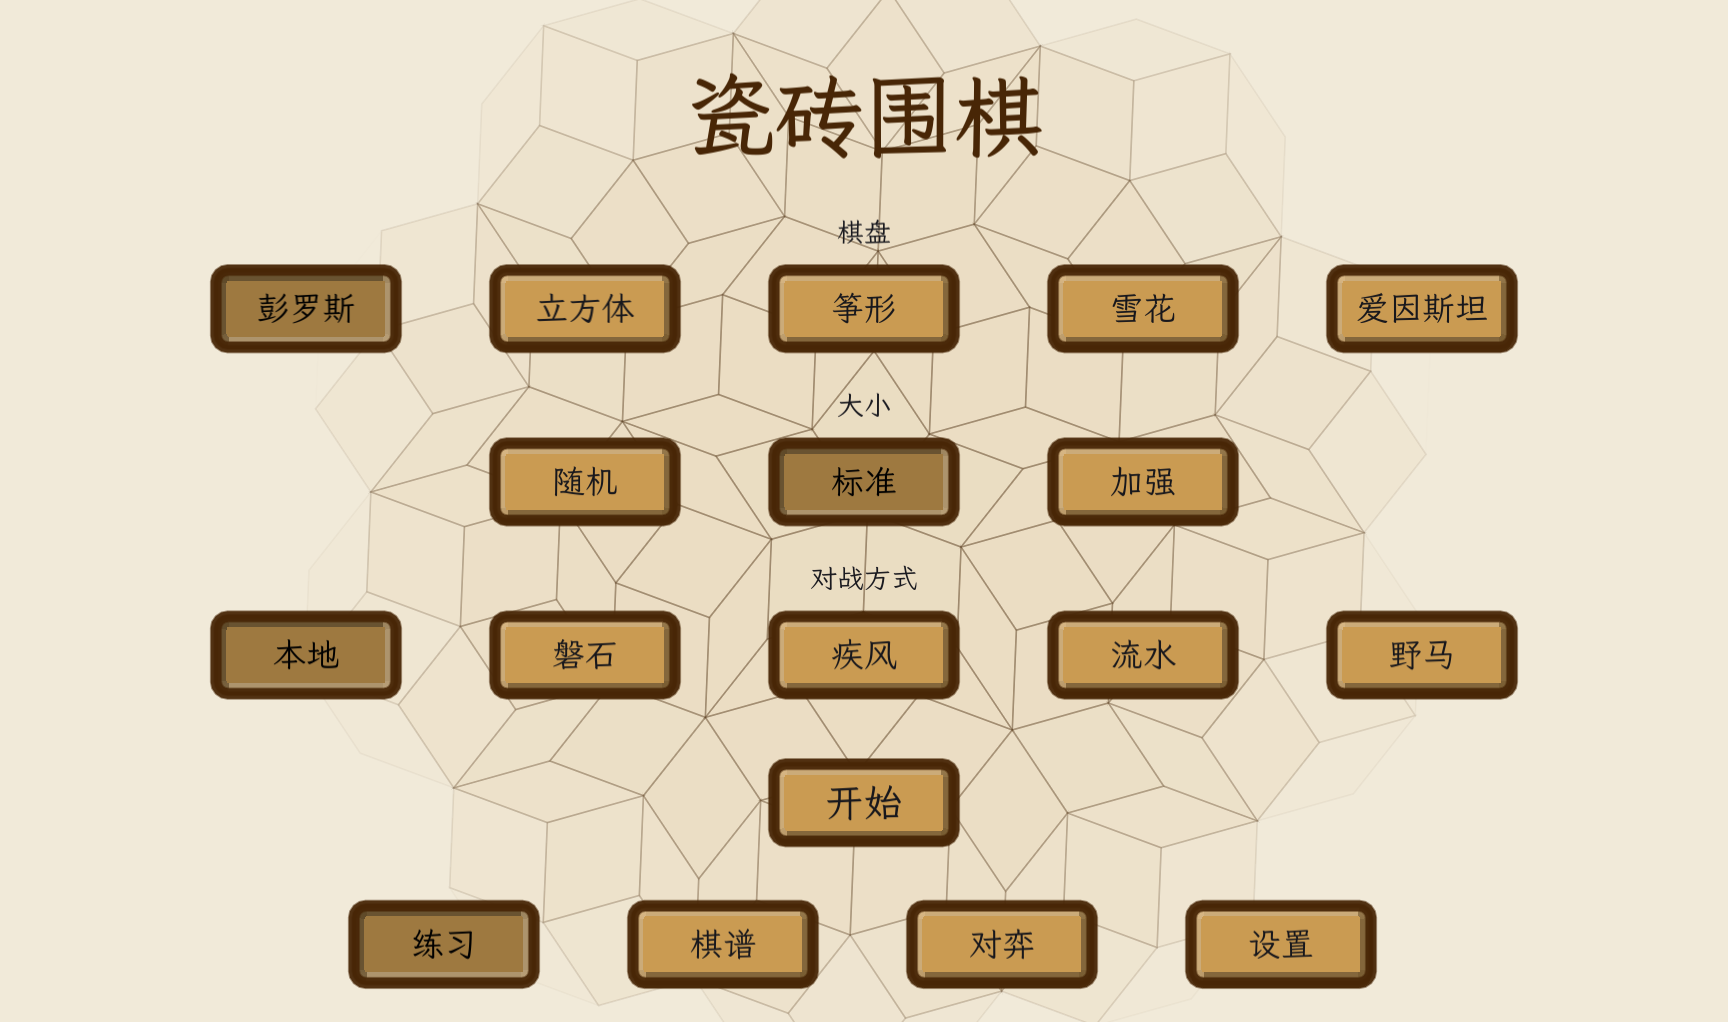
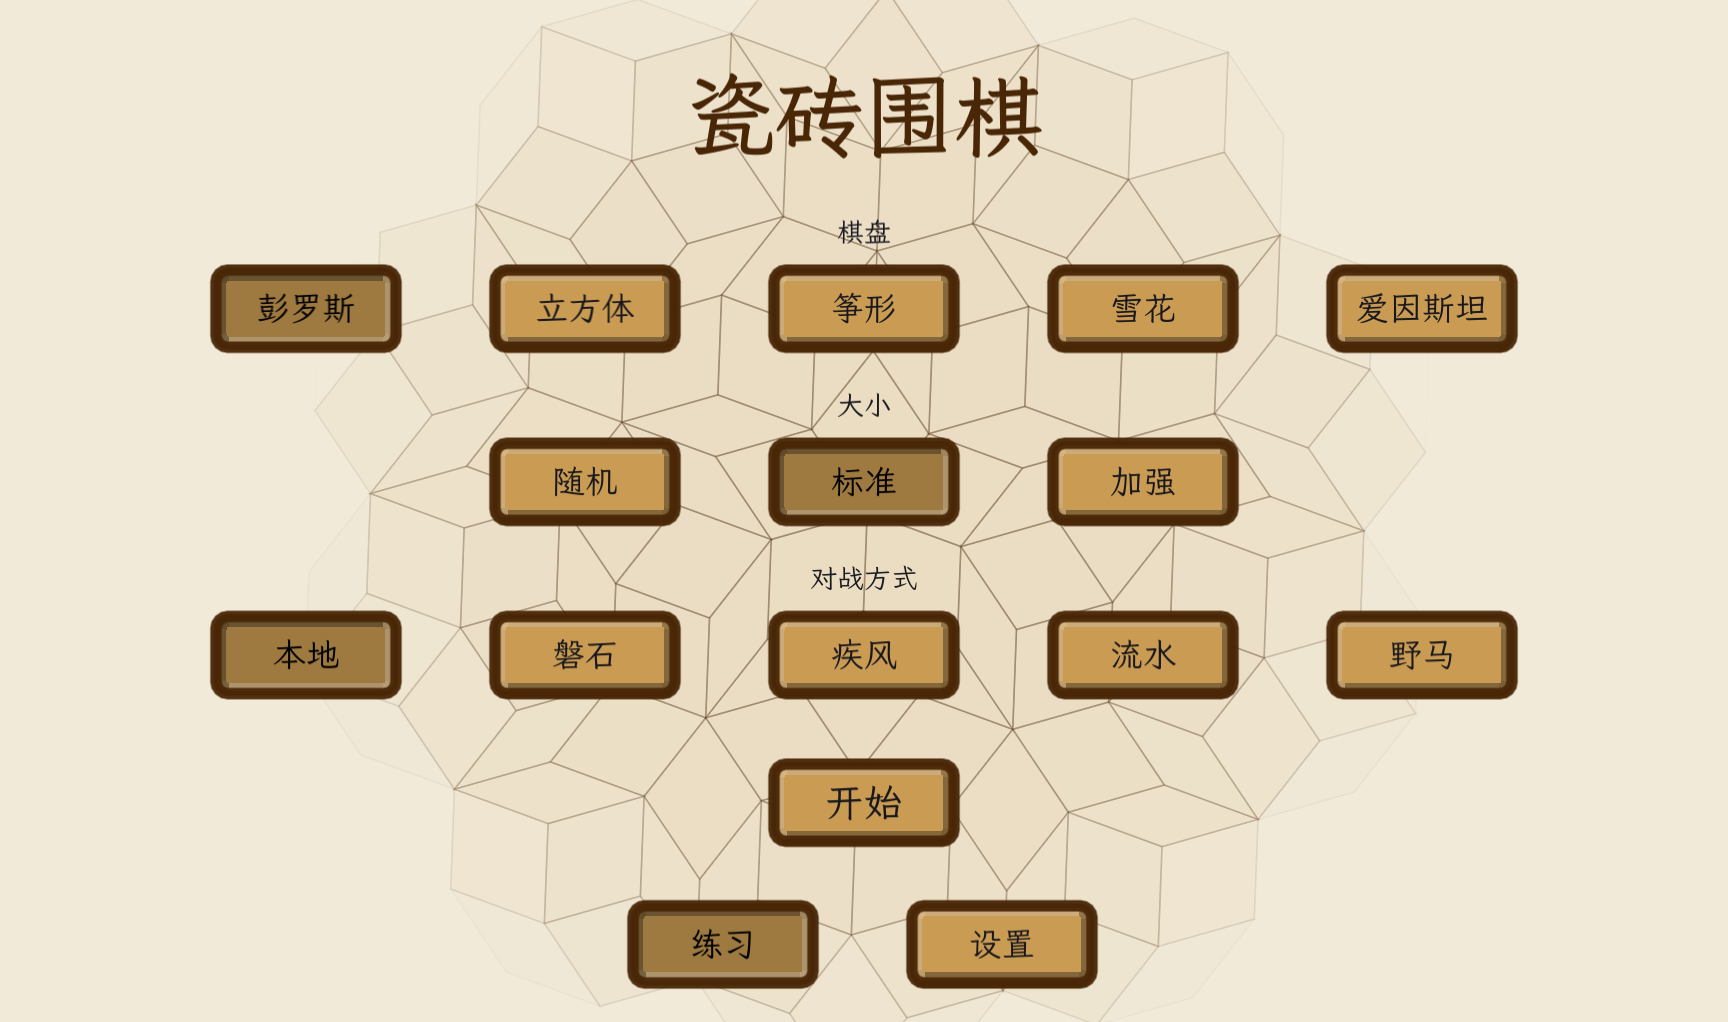
开源版改为精简裁剪：无棋谱 / 无联机 / 单一主题
- game_config.gd 新增 lite 开关（OS.has_feature("lite")），默认 false ⇒ 完整版逐字不变
- 精简版：_ensure_themes() 收窄到「宣纸」一套；load_appearance 强制归位；
  request_replay 拒绝写入；load_last_match 把 mode=ONLINE 降级成人机
- menu.gd 底栏不产出「棋谱 / 对弈」两瓣；--menutest ①a 期望值跟工况走
- game.gd _record_flush 在精简版直接返回（三处落盘出口一处关掉）
- --apptest 两条判据在精简版按"工况不可达"如实跳过并打印理由，不伪装通过
- export_presets.cfg 新增 "Windows Desktop (Lite)"（custom_features=lite）
- CI 改用 lite 预设；README 重写，主打"邀请别人来做这个 AI"

diff --git a/README.md b/README.md
@@ -2,7 +2,7 @@
 
 在**非周期密铺**棋盘上下的围棋。没有角，没有边，每一格的邻居数都不一样。
 
-用 Godot 4.7 写的个人项目，约 5.7 万行 GDScript。棋盘不是网格，而是由菱形、筝形、帽子等瓷砖拼成的密铺 —— 落子点就是瓷砖本身，气与连通块按「共享边」定义，其余规则照围棋来。
+单人机对战，Windows 免安装，MIT 开源。约 5.7 万行 GDScript（Godot 4.7）。
 
 ![主菜单](docs/screenshot-menu.png)
 
@@ -12,13 +12,22 @@
 
 ## 下载即玩
 
-到 [Releases](../../releases) 下载最新 `TileGo-windows-x64.zip`，解压，双击 `TileGo.exe`。
+到 [Releases](../../releases) 下载 `TileGo-windows-x64.zip`，解压，双击 `TileGo.exe`。
 
-- 平台：Windows 10/11 64 位
-- 免安装，无需 Godot 引擎
-- 存档与棋谱在 `%APPDATA%/Godot/app_userdata/瓷砖围棋/`
+- Windows 10/11 64 位，无需安装引擎
+- 存档在 `%APPDATA%/Godot/app_userdata/瓷砖围棋/`
 
-## 有什么不一样
+### 这个版本刻意砍掉了什么
+
+| 砍掉 | 原因 |
+|---|---|
+| 联机对战 | 依赖 Steam SDK，要账号体系与大厅服务 |
+| 棋谱 / 复盘 | 完整版功能，与"下一盘棋"无关 |
+| 主题切换 | 只留一套「经典」配色（宣纸） |
+
+留下的是：**棋盘 + 规则 + AI**。完整版（12 套主题、棋谱复盘、Steam 联机）留给 Steam 版。
+
+## 有什么
 
 | 盘型 | 结构性来源 |
 |---|---|
@@ -28,26 +37,73 @@
 | 雪花 | Ammann–Beenker 密铺（八格网对偶），盘心 8 块锐角共点 |
 | 爱因斯坦 | 帽子 / 海龟 / 幽灵（单瓦片非周期密铺），替换系统迭代生成 |
 
-每种盘型都有「随机 / 标准 / 加强」三档大小。随机盘每局现场生成，约 200 格。
+每种盘型三档大小：随机（每局现场生成，约 200 格）/ 标准（约 120 格）/ 加强（约 360 格）。
 
-**四个 AI 对手**
+规则照围棋来：气、连通块、提子、打劫、超级劫、数子。邻接按**共享边**定义 —— 所以"一眼"的形状是三角形/四边形/五边形混着的，方格盘上的棋形直觉到这里全部失效。
 
-- **磐石** —— 主引擎，MCTS + 启发式评估，三档难度（简单 / 普通 / 困难）
-- **疾风** —— 变体，更激进
-- **流水** —— 另一套搜索结构，用于交叉验证
-- **野马** —— 神经网络评估（自训练权重，`ai/yema_weights.json`）
+四个 AI 对手：
 
-**其他**
+| 名字 | 是什么 |
+|---|---|
+| 磐石 | 主引擎，MCTS + 启发式评估（三档难度） |
+| 疾风 | 更激进的变体 |
+| 流水 | 另一套搜索结构，用于交叉验证 |
+| 野马 | 神经网络评估（自训练权重，`ai/yema_weights.json`） |
 
-- 本地双人 / 人机 / 联机（联机需要 Steam 版，见下）
-- 棋谱记录与回放，标准 JSON 格式
-- 图模式：把棋盘画成落子点连线的对偶图
-- 12 套配色主题，明度与对比度受硬性约束
-- 程序化生成的背景音乐（无音频文件，全部实时合成）
+---
+
+## 🎯 来做这个 AI 吧
+
+这是我把游戏开源出来的**主要原因**。
+
+它的棋力大约业余级，而我很清楚它卡在哪 —— 该撞的墙我都撞过了，数据和结论都留在这个仓库里。你需要的东西全在：
+
+| 你要的 | 在哪 |
+|---|---|
+| 主引擎 | `ai_engine.gd`（约 5200 行）MCTS + 启发式评估 + 策略性 rollout |
+| 所有旋钮 | 同一文件顶部的 `@export`，每个都是运行期可调参数 |
+| 变体引擎 | `ai_engine_liushui.gd` / `ai_engine_yema.gd` |
+| 神经网络雏形 | `nn_score.gd` + `ai/yema_weights.json` + `ai/yema_golden.json` |
+| 自弈 / A-B 仪器 | `game.gd` 里的 `--aispec` / `--aiprof` / `--aibud` |
+
+### 五分钟上一次实验
+
+```bash
+# 两个版本的引擎互下 16 局（自动换色配对），只差一个参数
+godot --headless --path . -- --aispec=r16:pw100:a=count_prisoners=false:b=count_prisoners=true
+```
+
+`a=` 与 `b=` 各是一组"参数名=值"的覆盖（多组用 `,` 分隔），冒号分隔 token。跑完直接给胜率、目差、时间比。可复现（有种子）、可配对（同局换色），不用手工摆棋。
+
+### 我先替你把死路标出来
+
+以下是我实测过的结论，**别再花时间**：
+
+- **算力已经饱和。** 时间预算 200ms → 400ms（多花 1.64× 时间），32 局换色打 **16:16**。加线程同理（53.1%，z=0.35）。
+- **评估里"影响/势力"那一项是承重墙。** 关掉它胜率掉到 **15.6%**（单线程 80.6% / 生产口径 84.4%，两批独立种子一致）。别动它。
+- **死子修正闸门、提子奖励、全盘扫描** 三样都试过，A/B 全是噪声（提子项合并 56 局 z=−0.27），默认值已是最优。
+- **评估半径**（影响扩散距离）四个方向全试完：7 格最优，收窄或放大都只有害处。
+
+真正剩下的只有一件事：**评估函数的"形状"** —— 不是算力、不是噪声、不是搜索宽度。
+
+### 我会想看的方向
+
+1. **换搜索形态。** 120 格的小盘上 MCTS 未必是对的答案 —— 我有一条旧观察说它打不过 90ms 的贪心。要是你能证明这一点，这个仓库值得改写。
+2. **学习型先验。** 现有 `yema` 权重是自己训的，历史上没超过手调启发式。问题可能出在"指标选错"（拿 val loss 当棋力代理，而两者可能反向），不是模型不行。
+3. **更好的终局评估。** 现在数子口径很朴素。
+4. **任何能让评估更懂密铺棋形的东西。** 这是这盘棋真正有意思的地方。
+
+### 提交前请读这一句
+
+**16 局不足以定结论。** 8 局换色配对的 95% 置信区间大约是 **[38%, 82%]** —— 你会先看到"68.8% 大胜"，下一批掉回 43.8%。
+
+**要报结论：至少三批独立种子，|z| ≥ 3 且目差同向。**
+
+---
 
 ## 从源码跑
 
-需要 **Godot 4.7.2**（GL Compatibility 渲染，无需 C#／无需编译）。
+需要 **Godot 4.7.2**（GL Compatibility，无 C#、无编译步骤）。
 
 ```bash
 git clone https://github.com/<你的账号>/<仓库名>.git
@@ -55,57 +111,53 @@ cd 瓷砖围棋
 godot --path .
 ```
 
-主场景是 `menu.tscn`；直接进对局可用 `godot --path . res://game.tscn`。
+主场景 `menu.tscn`；直接进对局：`godot --path . res://game.tscn`。
 
-**注意**：本仓库**不含 Steam SDK**。`addons/godotsteam/`、`steam_api64.dll`、`steam_appid.txt` 已在 `.gitignore` 中排除。
-`steam_net.gd` 全程用反射调用 Steam 接口，插件缺失时 `is_available()` 返回 `false`，游戏照常运行，点「对弈」只会弹一句「Steam 不可用」，不会崩。
-
-想自己接联机：从 [GodotSteam](https://github.com/GodotSteam/GodotSteam) 取对应版本放进 `addons/godotsteam/`，并在工程根放 `steam_appid.txt`。
+仓库**不含 Steam SDK**（`addons/godotsteam/`、`steam_api64.dll` 已在 `.gitignore` 排除）。`steam_net.gd` 全程反射调用，插件缺失时只是 `is_available()` 返回 false，游戏照常运行 —— 精简版本就不显示联机入口。
 
 ## 构建发布包
 
-打 tag 会触发 GitHub Actions 自动导出并附到 Release：
+打 tag 触发 GitHub Actions 自动导出并附到 Release：
 
 ```bash
-git tag v0.9.0 && git push origin v0.9.0
+git tag v0.8.0 && git push origin v0.8.0
 ```
 
-本地手动导出（需先在编辑器里装好 4.7.2 导出模板）：
+本地手动导出（需先在编辑器装好 4.7.2 导出模板）：
 
 ```bash
-godot --headless --path . --export-release "Windows Desktop" dist/TileGo.exe
+godot --headless --path . --export-release "Windows Desktop (Lite)" dist/TileGo.exe
 ```
 
-导出预设用 `embed_pck = true`，产物是单文件 exe。
+预设 `Windows Desktop (Lite)` 带 `custom_features="lite"`，这是精简版的唯一开关（见 `game_config.gd` 的 `lite` 字段）。
 
 ## 目录
 
 ```
-game.gd           对局主逻辑（渲染 / 落子 / 动画 / 自检入口）
-rules_kernel.gd   规则内核（气 / 块 / 提子 / superko / 数子）
-ai_engine.gd      主 AI（MCTS + 启发式）
-ai_engine_*.gd    疾风 / 流水 / 野马变体
-menu.gd           主菜单（瓷砖式布局，自绘）
-game_config.gd    全部可调参数与存档
-music.gd          程序化音乐合成
-record.gd / replay.gd  棋谱
-steam_net.gd      Steam 门面（反射调用，可缺）
-themes/           12 套主题 .tres
-art/font/         霞鹜文楷子集（OFL 1.1）
-ai/               野马权重与 golden 基准
+game.gd                 对局主逻辑（渲染 / 落子 / 动画 / 自检入口）
+rules_kernel.gd         规则内核（气 / 块 / 提子 / superko / 数子）
+ai_engine.gd            主 AI（MCTS + 启发式）★ 想改 AI 从这里开始
+ai_engine_liushui.gd    流水变体
+ai_engine_yema.gd       野马（学习型评估）
+nn_score.gd             神经网络前向与特征
+menu.gd                 主菜单（瓷砖式布局，自绘）
+game_config.gd          全部可调参数与存档（含 lite 开关）
+music.gd                程序化音乐合成（无音频文件，实时生成）
+themes/                 主题 .tres（精简版只用 00_宣纸）
+art/font/               霞鹜文楷子集（OFL 1.1）
+ai/                     野马权重与 golden 基准
 ```
 
 ## 已知限制
 
-- 联机依赖 Steam，Steam 版才能用；开源版这块是灰的
-- 只有 Windows 预设（Linux / macOS 需自行加导出预设，引擎侧没做特殊适配）
+- 只有 Windows 预设，Linux/macOS 需自行加导出预设
+- AI 是业余级，不追求段位强度
 - 移动端竖屏布局已暂停开发
-- AI 棋力约业余级，不追求段位强度
 
 ## 授权
 
 代码 MIT，见 [LICENSE](LICENSE)。
 
-随包字体 **霞鹜文楷 LXGW WenKai**：SIL Open Font License 1.1，条款与子集化说明见 `art/font/README.md` 与 `art/font/LXGWWenKai-OFL.txt`。
+随包字体 **霞鹜文楷 LXGW WenKai**：SIL Open Font License 1.1，详见 `art/font/README.md`。
 
 引擎 **Godot Engine** 4.7.2：MIT。
